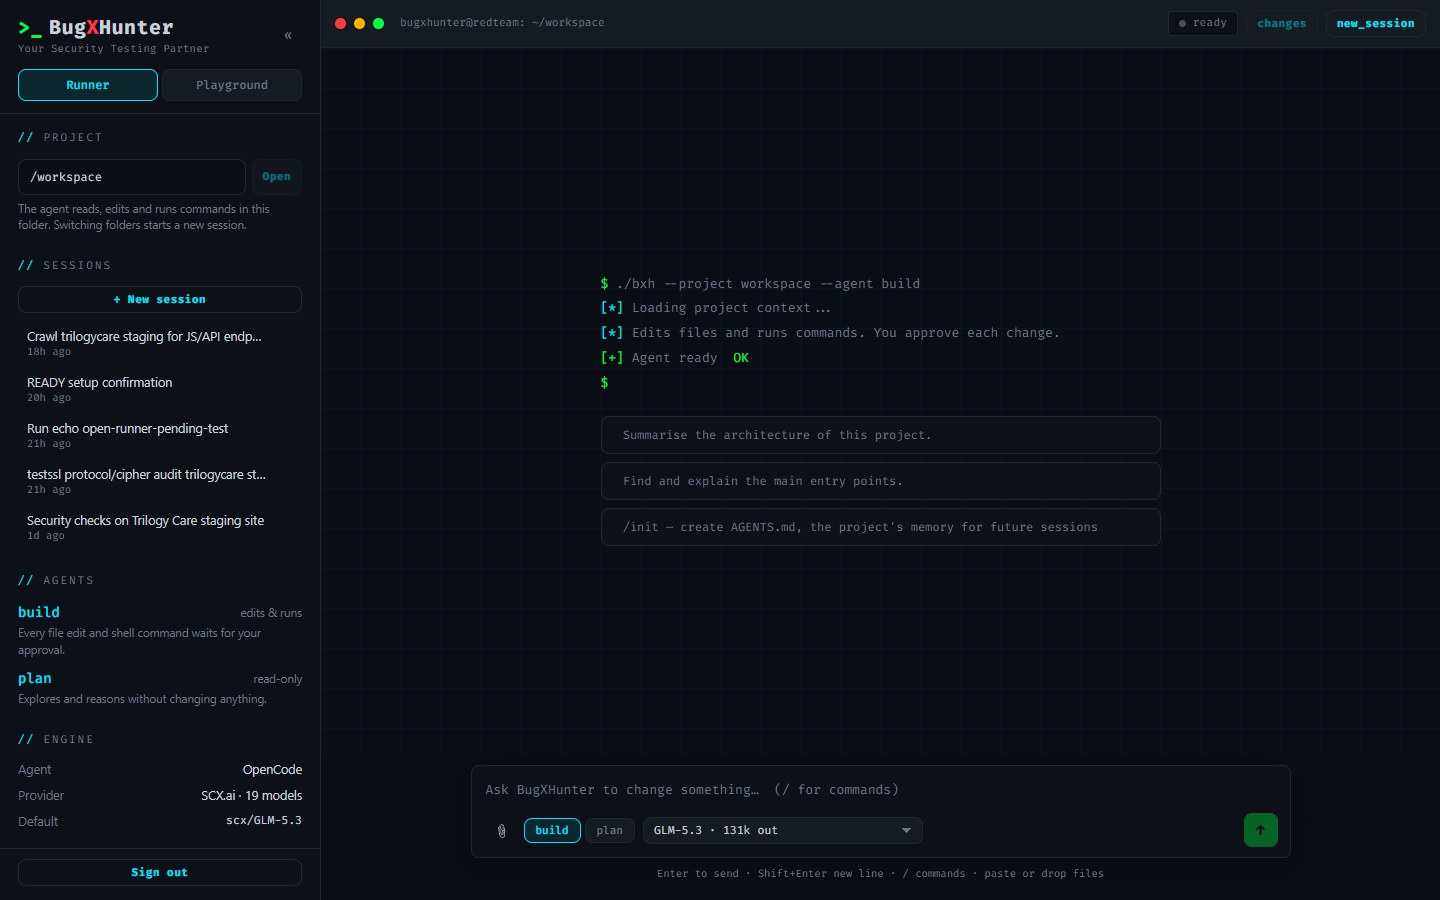
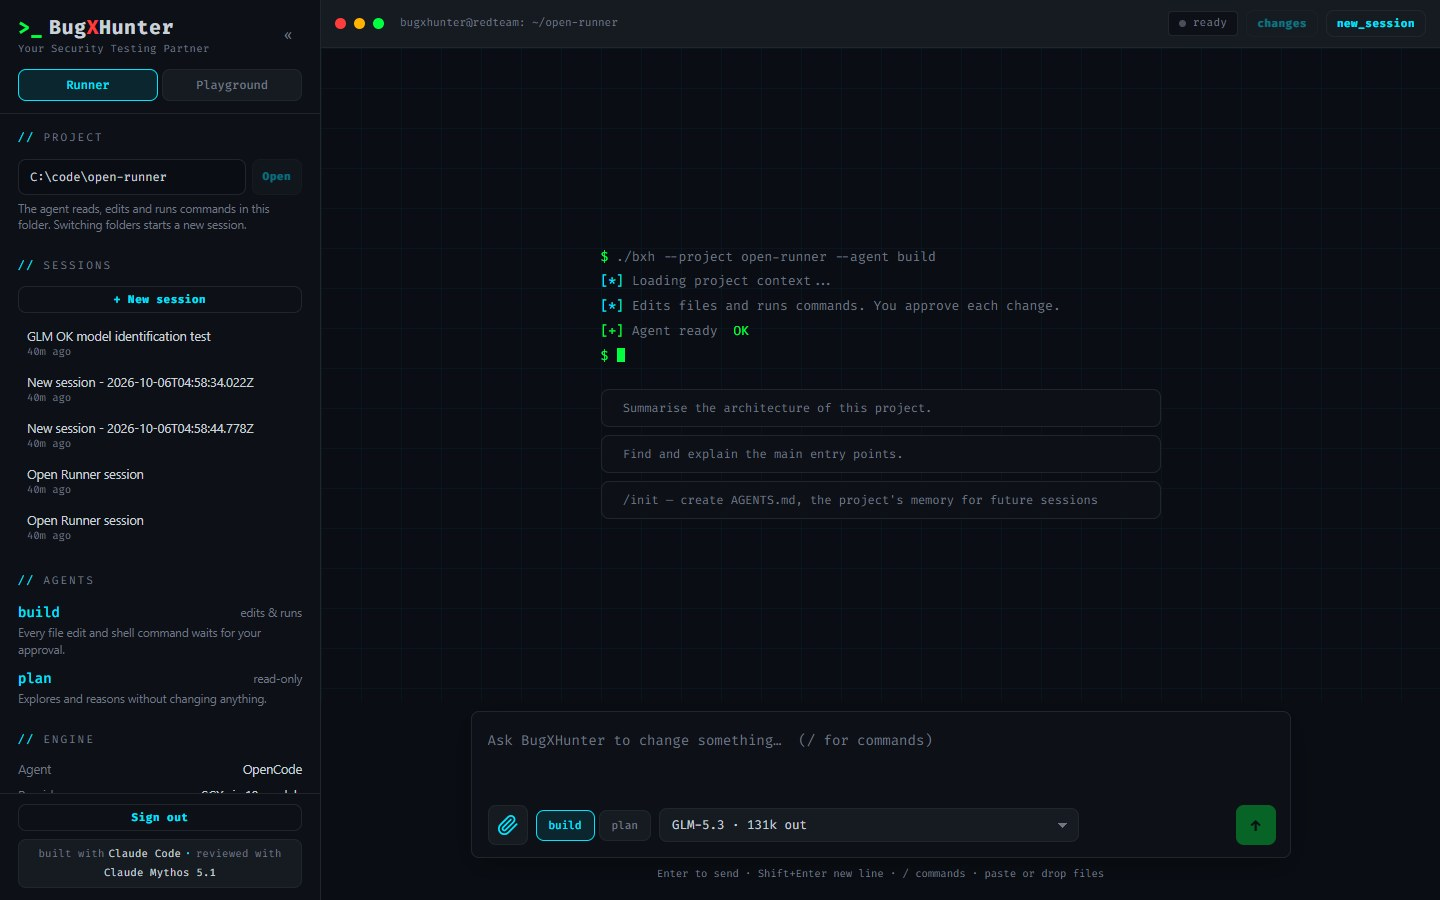
Fix agent image wordlists, load .env before modules read it, add tool credit badge, new screenshots
- SecLists moved three wordlists (SQLi, XSS, API endpoints); the old '|| true'
  silently skipped them, so they were never in the image. Point at the current
  paths; curl -fsSL now fails the build on a bad URL instead.
- server/src/env.ts loads .env before auth/opencode/audit read process.env;
  previously a .env password or model never applied in local mode.
- Sidebar footer: 'built with Claude Code · reviewed with Claude Mythos 5.1'
  tool credit; README badges and an AI-assistance note.
- README screenshots retaken on the new UI (landing, plan agent summarising
  this repo, Playground).
- Dependabot: group Actions updates, group npm majors, keep Node on 22 LTS.

diff --git a/web/src/styles.css b/web/src/styles.css
@@ -79,7 +79,16 @@ a { color: var(--cyan); }
 .sidebar-head { padding: 16px 18px 12px; border-bottom: 1px solid var(--border); }
 .sidebar-top { display: flex; align-items: center; justify-content: space-between; gap: 8px; }
 .sidebar-body { overflow-y: auto; padding: 6px 18px 24px; flex: 1; }
-.sidebar-foot { padding: 10px 18px 14px; border-top: 1px solid var(--border); }
+.sidebar-foot { padding: 10px 18px 12px; border-top: 1px solid var(--border); display: flex; flex-direction: column; gap: 8px; }
+/* Tool credit, visible on every screen: built with Claude Code, reviewed with Claude Mythos 5.1. */
+.ai-badge {
+  display: flex; justify-content: center; align-items: center; gap: 4px; flex-wrap: wrap;
+  font-family: var(--mono); font-size: 10.5px; letter-spacing: 0.3px; color: var(--text); text-decoration: none;
+  padding: 6px 8px; border: 1px solid var(--border); border-radius: var(--radius); background: var(--panel-2); transition: var(--transition);
+}
+.ai-badge .k { color: var(--muted); }
+.ai-badge .sep { color: var(--cyan); }
+.ai-badge:hover { border-color: var(--cyan); color: var(--cyan); }
 
 /* Splitter: a 1px border with a wider invisible grab area. */
 .splitter { position: relative; background: var(--border); cursor: col-resize; z-index: 5; touch-action: none; }

diff --git a/server/src/index.ts b/server/src/index.ts
@@ -6,12 +6,11 @@
  * browser only ever talks to this server. Streams are forwarded as
  * Server-Sent Events.
  */
+import "./env.js"; // first: loads .env before the modules below read process.env
 import express from "express";
-import dotenv from "dotenv";
 import fs from "node:fs";
 import os from "node:os";
 import path from "node:path";
-import { fileURLToPath } from "node:url";
 import { SCXClient, SCXError, type ChatParams } from "./scx.js";
 import { KnowledgeBase, buildContextBlock } from "./rag.js";
 import {
@@ -22,10 +21,6 @@ import type { PendingRequests, SessionSummary, SlashCommand, StoredMessage, Todo
 import { mountAuth, authRequired } from "./auth.js";
 import { audit, followOpencode, LOG_DIR } from "./audit.js";
 import { saveAttachments, type Attachment } from "./attachments.js";
-
-// Optional repo-root .env (server runs from /server).
-const __dirname = path.dirname(fileURLToPath(import.meta.url));
-dotenv.config({ path: path.resolve(__dirname, "../../.env") });
 
 /** The key `opencode auth login` stored for the scx provider, if any. */
 function opencodeAuthKey(): string {

diff --git a/web/src/Sidebar.tsx b/web/src/Sidebar.tsx
@@ -335,11 +335,18 @@ export function Sidebar({
         </div>
       </div>
       )}
-      {authOn && (
-        <div className="sidebar-foot">
-          <button className="btn ghost sm block" onClick={logout}>Sign out</button>
-        </div>
-      )}
+      <div className="sidebar-foot">
+        {authOn && <button className="btn ghost sm block" onClick={logout}>Sign out</button>}
+        <a
+          className="ai-badge"
+          href="https://claude.com/claude-code"
+          target="_blank"
+          rel="noopener noreferrer"
+          title="This app was built with Claude Code and its code reviewed and hardened with Claude Mythos 5.1."
+        >
+          <span className="k">built with</span> Claude Code <span className="sep">·</span> <span className="k">reviewed with</span> Claude Mythos 5.1
+        </a>
+      </div>
     </aside>
   );
 }

diff --git a/server/src/env.ts b/server/src/env.ts
@@ -1,0 +1,15 @@
+/**
+ * Loads the repo-root .env before any other module reads process.env.
+ *
+ * Must be the first import in index.ts: ES module imports are evaluated in
+ * order, and auth.ts, opencode.ts and audit.ts read their settings at import
+ * time. Loading dotenv later (as index.ts once did) meant a `.env` password or
+ * model never applied in local mode.
+ */
+import dotenv from "dotenv";
+import path from "node:path";
+import { fileURLToPath } from "node:url";
+
+const here = path.dirname(fileURLToPath(import.meta.url));
+// Both src/ (tsx) and dist/ (compiled) sit two levels below the repo root.
+dotenv.config({ path: path.resolve(here, "../../.env") });

diff --git a/README.md b/README.md
@@ -1,5 +1,10 @@
 # BugXHunter
 
+[![CI](https://github.com/cintelis/bugxhunter-runner/actions/workflows/ci.yml/badge.svg)](https://github.com/cintelis/bugxhunter-runner/actions/workflows/ci.yml)
+[![CodeQL](https://github.com/cintelis/bugxhunter-runner/actions/workflows/codeql.yml/badge.svg)](https://github.com/cintelis/bugxhunter-runner/actions/workflows/codeql.yml)
+[![Built with Claude Code](https://img.shields.io/badge/built_with-Claude_Code-0a0e14?logo=anthropic&logoColor=00e5ff)](https://claude.com/claude-code)
+[![Reviewed with Claude Mythos 5.1](https://img.shields.io/badge/reviewed_with-Claude_Mythos_5.1-0a0e14?logo=anthropic&logoColor=00ff41)](https://claude.com)
+
 The [BugXHunter](https://bugxhunter.com) security-testing agent runner: a web UI for the
 [OpenCode](https://opencode.ai) coding agent, running on open-weight models (GLM-5.3 by default)
 through [SCX.ai](https://platform.scx.ai). The UI follows bugxhunter.com's design system — a
@@ -169,6 +174,13 @@ fails the other's type-check.
 | `web/src/AgentPanel.tsx` | Runner transcript, approvals and session flow; `DiffModal.tsx` and `QuestionCard.tsx` hold the Changes view and agent questions |
 | `web/src/Sidebar.tsx` | Project folder picker (Runner) and model/prompt settings (Playground) |
 | `web/src/styles.css`, `brand.tsx`, `Terminal.tsx` | bugxhunter.com theme tokens, the `>_ BugXHunter` wordmark, terminal title bar and typed boot sequence |
+
+## AI assistance
+
+BugXHunter was built with [Claude Code](https://claude.com/claude-code), and the codebase was
+reviewed and hardened with Claude Mythos 5.1 (bug fixes, the security hardening, tests and CI).
+That is a tool credit, not a review or endorsement by Anthropic; the maintainers are responsible
+for the code.
 
 ## License
 

diff --git a/docker/agent-AGENTS.md b/docker/agent-AGENTS.md
@@ -32,8 +32,9 @@ Local tools (no network):
   for a plain folder, or `gitleaks detect --source .` for a git repo. Save the report under the
   project folder.
 
-Wordlists: `/opt/wordlists` (common.txt, api-endpoints.txt, raft-medium-directories.txt,
-subdomains-top1million-5000.txt, LFI/SQLi/XSS lists). Save findings under the project folder.
+Wordlists: `/opt/wordlists` (common.txt, common-api-endpoints-mazen160.txt,
+raft-medium-directories.txt, subdomains-top1million-5000.txt, LFI-Jhaddix.txt, Generic-SQLi.txt,
+XSS-Jhaddix.txt). Save findings under the project folder.
 
 ## Running scans efficiently (important — scans are slow if done naively)
 
